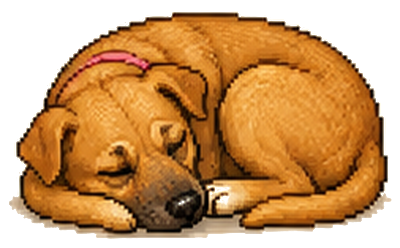
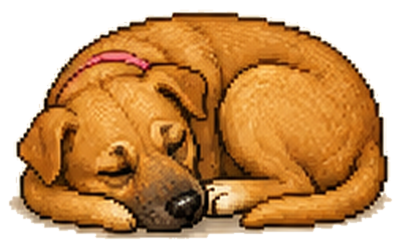
Corrige remocao de fundo das imagens: usa conectividade a borda em vez de distancia de cor pura

diff --git a/web/src/utils/versao.js b/web/src/utils/versao.js
@@ -1,4 +1,4 @@
 // Atualizo esse número toda vez que envio uma mudança —
 // serve pra você confirmar se o app realmente atualizou no celular.
-export const VERSAO = '1.11.1';
-export const VERSAO_DESCRICAO = 'Remove fundo das imagens da Nina e ajusta espacamento';
+export const VERSAO = '1.11.2';
+export const VERSAO_DESCRICAO = 'Corrige remocao de fundo (preservando partes claras do desenho)';
